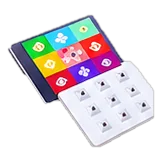
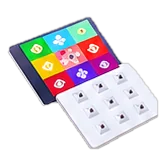
Services: reference-style cards with call button, label and Know more; re-cropped Jiten cut-outs
Claude-Session: https://claude.ai/code/session_01VgqprJfuBerpFNbStTnsHS

diff --git a/src/lib/i18n/ta.ts b/src/lib/i18n/ta.ts
@@ -866,6 +866,22 @@ const exact: Record<string, string> = {
   'Swastik, AUM and Trishul plates, Vaastu spray and powder, car protection and more.': 'ஸ்வஸ்திக், ஓம் மற்றும் திரிசூல தகடுகள், வாஸ்து ஸ்ப்ரே மற்றும் பொடி, வாகனப் பாதுகாப்பு மற்றும் பல.',
   'Availability is confirmed on WhatsApp. Guruji can suggest the right item for your chart and home.': 'கிடைப்பது வாட்ஸ்அப்பில் உறுதிசெய்யப்படும். உங்கள் ஜாதகம் மற்றும் வீட்டுக்கேற்ற பொருளை குருஜி பரிந்துரைப்பார்.',
   'Shop categories': 'கடைப் பிரிவுகள்',
+
+  // ── Locations ──
+  'Online Astrologer in Mandya': 'மண்டியாவில் ஆன்லைன் ஜோதிடர்',
+  'Jathaka Reading in Mandya': 'மண்டியாவில் ஜாதகம் பார்த்தல்',
+  'Vedic Astrologer in Mandya': 'மண்டியாவில் வேத ஜோதிடர்',
+  'Live Consultation in Mandya': 'மண்டியாவில் நேரடி ஆலோசனை',
+  'Career Astrologer in Mandya': 'மண்டியாவில் தொழில் ஜோதிடர்',
+  'Love Astrologer in Mandya': 'மண்டியாவில் காதல் ஜோதிடர்',
+  'Marriage Astrologer in Mandya': 'மண்டியாவில் திருமண ஜோதிடர்',
+  'Business Astrologer in Mandya': 'மண்டியாவில் வணிக ஜோதிடர்',
+  'Property Astrologer in Mandya': 'மண்டியாவில் சொத்து ஜோதிடர்',
+  'Gemstone Consultant in Mandya': 'மண்டியாவில் இரத்தின ஆலோசகர்',
+  'Health Astrology in Mandya': 'மண்டியாவில் ஆரோக்கிய ஜோதிடம்',
+  'Life Guidance in Mandya': 'மண்டியாவில் வாழ்க்கை வழிகாட்டல்',
+  'Negative Energy Removal in Mandya': 'மண்டியாவில் எதிர்மறை ஆற்றல் நீக்கம்',
+  'Vastu Consultant in Mandya': 'மண்டியாவில் வாஸ்து ஆலோசகர்',
 }
 
 const phrases: Record<string, string> = {
@@ -928,6 +944,8 @@ const phrases: Record<string, string> = {
   'Perandapalli': 'பெரண்டப்பள்ளி',
   'Directions to': 'வழி:',
   'Business, Money & Negative Energy — Guruji Answers': 'வணிகம், பணம் மற்றும் எதிர்மறை சக்தி — குருஜியின் பதில்கள்',
+
+  // ── Locations ──
 
   // ── Locations ──
 

diff --git a/src/lib/i18n/kn.ts b/src/lib/i18n/kn.ts
@@ -867,6 +867,22 @@ const exact: Record<string, string> = {
   'Swastik, AUM and Trishul plates, Vaastu spray and powder, car protection and more.': 'ಸ್ವಸ್ತಿಕ, ಓಂ ಮತ್ತು ತ್ರಿಶೂಲ ಫಲಕಗಳು, ವಾಸ್ತು ಸ್ಪ್ರೇ ಮತ್ತು ಪುಡಿ, ವಾಹನ ರಕ್ಷಣೆ ಮತ್ತು ಇನ್ನಷ್ಟು.',
   'Availability is confirmed on WhatsApp. Guruji can suggest the right item for your chart and home.': 'ಲಭ್ಯತೆಯನ್ನು ವಾಟ್ಸಾಪ್ನಲ್ಲಿ ದೃಢಪಡಿಸಲಾಗುತ್ತದೆ. ನಿಮ್ಮ ಜಾತಕ ಮತ್ತು ಮನೆಗೆ ತಕ್ಕ ವಸ್ತುವನ್ನು ಗುರೂಜಿ ಸೂಚಿಸಬಹುದು.',
   'Shop categories': 'ಅಂಗಡಿ ವಿಭಾಗಗಳು',
+
+  // ── Locations ──
+  'Online Astrologer in Mandya': 'ಮಂಡ್ಯದಲ್ಲಿ ಆನ್ಲೈನ್ ಜ್ಯೋತಿಷಿ',
+  'Jathaka Reading in Mandya': 'ಮಂಡ್ಯದಲ್ಲಿ ಜಾತಕ ಪರಿಶೀಲನೆ',
+  'Vedic Astrologer in Mandya': 'ಮಂಡ್ಯದಲ್ಲಿ ವೈದಿಕ ಜ್ಯೋತಿಷಿ',
+  'Live Consultation in Mandya': 'ಮಂಡ್ಯದಲ್ಲಿ ನೇರ ಸಮಾಲೋಚನೆ',
+  'Career Astrologer in Mandya': 'ಮಂಡ್ಯದಲ್ಲಿ ವೃತ್ತಿ ಜ್ಯೋತಿಷಿ',
+  'Love Astrologer in Mandya': 'ಮಂಡ್ಯದಲ್ಲಿ ಪ್ರೀತಿ ಜ್ಯೋತಿಷಿ',
+  'Marriage Astrologer in Mandya': 'ಮಂಡ್ಯದಲ್ಲಿ ವಿವಾಹ ಜ್ಯೋತಿಷಿ',
+  'Business Astrologer in Mandya': 'ಮಂಡ್ಯದಲ್ಲಿ ವ್ಯಾಪಾರ ಜ್ಯೋತಿಷಿ',
+  'Property Astrologer in Mandya': 'ಮಂಡ್ಯದಲ್ಲಿ ಆಸ್ತಿ ಜ್ಯೋತಿಷಿ',
+  'Gemstone Consultant in Mandya': 'ಮಂಡ್ಯದಲ್ಲಿ ರತ್ನ ಸಲಹೆಗಾರ',
+  'Health Astrology in Mandya': 'ಮಂಡ್ಯದಲ್ಲಿ ಆರೋಗ್ಯ ಜ್ಯೋತಿಷ್ಯ',
+  'Life Guidance in Mandya': 'ಮಂಡ್ಯದಲ್ಲಿ ಜೀವನ ಮಾರ್ಗದರ್ಶನ',
+  'Negative Energy Removal in Mandya': 'ಮಂಡ್ಯದಲ್ಲಿ ನಕಾರಾತ್ಮಕ ಶಕ್ತಿ ನಿವಾರಣೆ',
+  'Vastu Consultant in Mandya': 'ಮಂಡ್ಯದಲ್ಲಿ ವಾಸ್ತು ಸಲಹೆಗಾರ',
 }
 
 const phrases: Record<string, string> = {
@@ -929,6 +945,8 @@ const phrases: Record<string, string> = {
   'Perandapalli': 'ಪೆರಂಡಪಲ್ಲಿ',
   'Directions to': 'ದಾರಿ:',
   'Business, Money & Negative Energy — Guruji Answers': 'ವ್ಯಾಪಾರ, ಹಣ ಮತ್ತು ನಕಾರಾತ್ಮಕ ಶಕ್ತಿ — ಗುರೂಜಿಯವರ ಉತ್ತರ',
+
+  // ── Locations ──
 
   // ── Locations ──
 

diff --git a/src/lib/i18n/mr.ts b/src/lib/i18n/mr.ts
@@ -867,6 +867,22 @@ const exact: Record<string, string> = {
   'Swastik, AUM and Trishul plates, Vaastu spray and powder, car protection and more.': 'स्वस्तिक, ओम आणि त्रिशूळ प्लेट्स, वास्तु स्प्रे आणि पावडर, वाहन संरक्षण आणि बरेच काही.',
   'Availability is confirmed on WhatsApp. Guruji can suggest the right item for your chart and home.': 'उपलब्धता व्हॉट्सॲपवर निश्चित केली जाते. गुरुजी तुमच्या कुंडली आणि घरानुसार योग्य वस्तू सुचवू शकतात.',
   'Shop categories': 'दुकान विभाग',
+
+  // ── Locations ──
+  'Online Astrologer in Mandya': 'मंड्या येथील ऑनलाइन ज्योतिषी',
+  'Jathaka Reading in Mandya': 'मंड्या येथे जातक वाचन',
+  'Vedic Astrologer in Mandya': 'मंड्या येथील वैदिक ज्योतिषी',
+  'Live Consultation in Mandya': 'मंड्या येथे थेट सल्ला',
+  'Career Astrologer in Mandya': 'मंड्या येथील करिअर ज्योतिषी',
+  'Love Astrologer in Mandya': 'मंड्या येथील प्रेम ज्योतिषी',
+  'Marriage Astrologer in Mandya': 'मंड्या येथील विवाह ज्योतिषी',
+  'Business Astrologer in Mandya': 'मंड्या येथील व्यवसाय ज्योतिषी',
+  'Property Astrologer in Mandya': 'मंड्या येथील मालमत्ता ज्योतिषी',
+  'Gemstone Consultant in Mandya': 'मंड्या येथील रत्न सल्लागार',
+  'Health Astrology in Mandya': 'मंड्या येथे आरोग्य ज्योतिष',
+  'Life Guidance in Mandya': 'मंड्या येथे जीवन मार्गदर्शन',
+  'Negative Energy Removal in Mandya': 'मंड्या येथे नकारात्मक ऊर्जा निवारण',
+  'Vastu Consultant in Mandya': 'मंड्या येथील वास्तु सल्लागार',
 }
 
 const phrases: Record<string, string> = {
@@ -929,6 +945,8 @@ const phrases: Record<string, string> = {
   'Perandapalli': 'पेरंडपल्ली',
   'Directions to': 'मार्ग:',
   'Business, Money & Negative Energy — Guruji Answers': 'व्यवसाय, पैसा आणि नकारात्मक ऊर्जा — गुरुजींची उत्तरे',
+
+  // ── Locations ──
 
   // ── Locations ──
 

diff --git a/src/lib/i18n/ml.ts b/src/lib/i18n/ml.ts
@@ -866,6 +866,22 @@ const exact: Record<string, string> = {
   'Swastik, AUM and Trishul plates, Vaastu spray and powder, car protection and more.': 'സ്വസ്തിക്, ഓം, ത്രിശൂല ഫലകങ്ങൾ, വാസ്തു സ്പ്രേയും പൊടിയും, വാഹന സംരക്ഷണം തുടങ്ങിയവ.',
   'Availability is confirmed on WhatsApp. Guruji can suggest the right item for your chart and home.': 'ലഭ്യത വാട്ട്സ്ആപ്പിൽ സ്ഥിരീകരിക്കും. നിങ്ങളുടെ ജാതകത്തിനും വീടിനും യോജിച്ചത് ഗുരുജി നിർദ്ദേശിക്കും.',
   'Shop categories': 'കട വിഭാഗങ്ങൾ',
+
+  // ── Locations ──
+  'Online Astrologer in Mandya': 'മണ്ഡ്യയിൽ ഓൺലൈൻ ജ്യോതിഷി',
+  'Jathaka Reading in Mandya': 'മണ്ഡ്യയിൽ ജാതക വായന',
+  'Vedic Astrologer in Mandya': 'മണ്ഡ്യയിൽ വൈദിക ജ്യോതിഷി',
+  'Live Consultation in Mandya': 'മണ്ഡ്യയിൽ നേരിട്ടുള്ള കൂടിയാലോചന',
+  'Career Astrologer in Mandya': 'മണ്ഡ്യയിൽ തൊഴിൽ ജ്യോതിഷി',
+  'Love Astrologer in Mandya': 'മണ്ഡ്യയിൽ പ്രണയ ജ്യോതിഷി',
+  'Marriage Astrologer in Mandya': 'മണ്ഡ്യയിൽ വിവാഹ ജ്യോതിഷി',
+  'Business Astrologer in Mandya': 'മണ്ഡ്യയിൽ ബിസിനസ് ജ്യോതിഷി',
+  'Property Astrologer in Mandya': 'മണ്ഡ്യയിൽ സ്വത്ത് ജ്യോതിഷി',
+  'Gemstone Consultant in Mandya': 'മണ്ഡ്യയിൽ രത്ന ഉപദേഷ്ടാവ്',
+  'Health Astrology in Mandya': 'മണ്ഡ്യയിൽ ആരോഗ്യ ജ്യോതിഷം',
+  'Life Guidance in Mandya': 'മണ്ഡ്യയിൽ ജീവിത മാർഗനിർദേശം',
+  'Negative Energy Removal in Mandya': 'മണ്ഡ്യയിൽ നെഗറ്റീവ് ഊർജ്ജ നിവാരണം',
+  'Vastu Consultant in Mandya': 'മണ്ഡ്യയിൽ വാസ്തു ഉപദേഷ്ടാവ്',
 }
 
 const phrases: Record<string, string> = {
@@ -928,6 +944,8 @@ const phrases: Record<string, string> = {
   'Perandapalli': 'പെരണ്ടപ്പള്ളി',
   'Directions to': 'വഴി:',
   'Business, Money & Negative Energy — Guruji Answers': 'ബിസിനസ്, പണം, നെഗറ്റീവ് ഊർജം — ഗുരുജിയുടെ മറുപടികൾ',
+
+  // ── Locations ──
 
   // ── Locations ──
 

diff --git a/src/lib/i18n/te.ts b/src/lib/i18n/te.ts
@@ -867,6 +867,22 @@ const exact: Record<string, string> = {
   'Swastik, AUM and Trishul plates, Vaastu spray and powder, car protection and more.': 'స్వస్తిక్, ఓం మరియు త్రిశూల ఫలకాలు, వాస్తు స్ప్రే మరియు పౌడర్, వాహన రక్షణ మరియు మరిన్ని.',
   'Availability is confirmed on WhatsApp. Guruji can suggest the right item for your chart and home.': 'లభ్యత వాట్సాప్లో నిర్ధారించబడుతుంది. మీ జాతకం మరియు ఇంటికి తగిన వస్తువును గురూజీ సూచించగలరు.',
   'Shop categories': 'దుకాణ విభాగాలు',
+
+  // ── Locations ──
+  'Online Astrologer in Mandya': 'మండ్యలో ఆన్లైన్ జ్యోతిష్కుడు',
+  'Jathaka Reading in Mandya': 'మండ్యలో జాతక పఠనం',
+  'Vedic Astrologer in Mandya': 'మండ్యలో వైదిక జ్యోతిష్కుడు',
+  'Live Consultation in Mandya': 'మండ్యలో ప్రత్యక్ష సంప్రదింపు',
+  'Career Astrologer in Mandya': 'మండ్యలో వృత్తి జ్యోతిష్కుడు',
+  'Love Astrologer in Mandya': 'మండ్యలో ప్రేమ జ్యోతిష్కుడు',
+  'Marriage Astrologer in Mandya': 'మండ్యలో వివాహ జ్యోతిష్కుడు',
+  'Business Astrologer in Mandya': 'మండ్యలో వ్యాపార జ్యోతిష్కుడు',
+  'Property Astrologer in Mandya': 'మండ్యలో ఆస్తి జ్యోతిష్కుడు',
+  'Gemstone Consultant in Mandya': 'మండ్యలో రత్న సలహాదారు',
+  'Health Astrology in Mandya': 'మండ్యలో ఆరోగ్య జ్యోతిష్యం',
+  'Life Guidance in Mandya': 'మండ్యలో జీవన మార్గదర్శనం',
+  'Negative Energy Removal in Mandya': 'మండ్యలో ప్రతికూల శక్తి నివారణ',
+  'Vastu Consultant in Mandya': 'మండ్యలో వాస్తు సలహాదారు',
 }
 
 const phrases: Record<string, string> = {
@@ -929,6 +945,8 @@ const phrases: Record<string, string> = {
   'Perandapalli': 'పెరండపల్లి',
   'Directions to': 'దారి:',
   'Business, Money & Negative Energy — Guruji Answers': 'వ్యాపారం, డబ్బు మరియు ప్రతికూల శక్తి — గురూజీ సమాధానాలు',
+
+  // ── Locations ──
 
   // ── Locations ──
 

diff --git a/src/lib/i18n/hi.ts b/src/lib/i18n/hi.ts
@@ -867,6 +867,22 @@ const exact: Record<string, string> = {
   'Swastik, AUM and Trishul plates, Vaastu spray and powder, car protection and more.': 'स्वस्तिक, ओम और त्रिशूल प्लेटें, वास्तु स्प्रे और पाउडर, वाहन सुरक्षा और बहुत कुछ।',
   'Availability is confirmed on WhatsApp. Guruji can suggest the right item for your chart and home.': 'उपलब्धता व्हाट्सऐप पर पुष्ट की जाती है। गुरुजी आपकी कुंडली और घर के अनुसार सही वस्तु सुझा सकते हैं।',
   'Shop categories': 'दुकान श्रेणियाँ',
+
+  // ── Locations ──
+  'Online Astrologer in Mandya': 'मंड्या में ऑनलाइन ज्योतिषी',
+  'Jathaka Reading in Mandya': 'मंड्या में जातक पठन',
+  'Vedic Astrologer in Mandya': 'मंड्या में वैदिक ज्योतिषी',
+  'Live Consultation in Mandya': 'मंड्या में सीधा परामर्श',
+  'Career Astrologer in Mandya': 'मंड्या में करियर ज्योतिषी',
+  'Love Astrologer in Mandya': 'मंड्या में प्रेम ज्योतिषी',
+  'Marriage Astrologer in Mandya': 'मंड्या में विवाह ज्योतिषी',
+  'Business Astrologer in Mandya': 'मंड्या में व्यापार ज्योतिषी',
+  'Property Astrologer in Mandya': 'मंड्या में संपत्ति ज्योतिषी',
+  'Gemstone Consultant in Mandya': 'मंड्या में रत्न सलाहकार',
+  'Health Astrology in Mandya': 'मंड्या में स्वास्थ्य ज्योतिष',
+  'Life Guidance in Mandya': 'मंड्या में जीवन मार्गदर्शन',
+  'Negative Energy Removal in Mandya': 'मंड्या में नकारात्मक ऊर्जा निवारण',
+  'Vastu Consultant in Mandya': 'मंड्या में वास्तु सलाहकार',
 }
 
 const phrases: Record<string, string> = {
@@ -929,6 +945,8 @@ const phrases: Record<string, string> = {
   'Perandapalli': 'पेरंडपल्ली',
   'Directions to': 'रास्ता:',
   'Business, Money & Negative Energy — Guruji Answers': 'व्यापार, धन और नकारात्मक ऊर्जा — गुरुजी के उत्तर',
+
+  // ── Locations ──
 
   // ── Locations ──
 

diff --git a/src/pages/Services.tsx b/src/pages/Services.tsx
@@ -67,6 +67,28 @@ export function ServiceCard({ s, minimal = false }: { s: Service; minimal?: bool
   )
 }
 
+/** Services-page card (reference layout): banner on top, round call button over its corner,
+ *  small red "… IN MANDYA" label, bold title, short description and "Know more". */
+export function ServiceTile({ s }: { s: Service }) {
+  return (
+    <article className="group relative flex h-full w-full flex-col rounded-xl bg-paper p-1.5 shadow-[0_10px_26px_-16px_rgba(147,96,15,.55)] ring-1 ring-goldlight/50 transition hover:-translate-y-1 sm:rounded-2xl sm:p-2.5">
+      <Link to={`/services/${s.slug}`} aria-label={s.title} className="block"><ServiceBanner s={s} /></Link>
+      <a href={site.phoneHref} aria-label={`Call about ${s.short}`}
+        className="relative z-[1] -mt-4 ml-1.5 flex h-8 w-8 items-center justify-center rounded-full border-2 border-paper bg-[#F2B91C] text-maroon shadow-md transition hover:scale-110 sm:-mt-5 sm:ml-3 sm:h-10 sm:w-10">
+        <Phone size={16} />
+      </a>
+      <Link to={`/services/${s.slug}`} className="flex flex-1 flex-col items-center px-0.5 pb-1.5 pt-1.5 text-center sm:px-2 sm:pb-3">
+        <p className="font-cinzel text-[8px] font-semibold leading-tight tracking-[0.08em] text-[#B0321A] uppercase sm:text-[11px] sm:tracking-[0.12em]">{`${s.label} in Mandya`}</p>
+        <h2 className="mt-1 font-marcellus text-[13px] font-semibold leading-tight text-maroon sm:mt-1.5 sm:text-[19px] sm:leading-snug">
+          <KeywordPair stacked en={s.short} kn={s.kn} className="[&>span:last-child]:mt-0.5 [&>span:last-child]:block [&>span:last-child]:text-[10.5px] [&>span:last-child]:font-normal [&>span:last-child]:text-golddark sm:[&>span:last-child]:text-[13.5px]" />
+        </h2>
+        <p className="mt-1.5 line-clamp-4 text-[11.5px] leading-snug text-ink/[.82] sm:mt-2 sm:line-clamp-none sm:text-[15px]">{s.desc}</p>
+        <span className="mt-auto inline-flex items-center gap-1 pt-2 font-marcellus text-[12px] text-[#B0321A] group-hover:gap-2 sm:pt-3 sm:text-[14.5px]">Know more <Arrow size={13} /></span>
+      </Link>
+    </article>
+  )
+}
+
 export function Services() {
   usePageTitle('Astrology Services')
   return (
@@ -79,7 +101,7 @@ export function Services() {
       <Section className="!pt-4">
         <div className="mx-auto flex max-w-6xl flex-wrap justify-center gap-2 sm:gap-5">
           {services.map((s) => (
-            <div key={s.slug} className="flex w-[calc((100%-1rem)/3)] sm:w-[calc((100%-2.5rem)/3)] lg:w-[calc((100%-3.75rem)/4)]"><ServiceCard s={s} /></div>
+            <div key={s.slug} className="flex w-[calc((100%-1rem)/3)] sm:w-[calc((100%-2.5rem)/3)]"><ServiceTile s={s} /></div>
           ))}
         </div>
       </Section>
